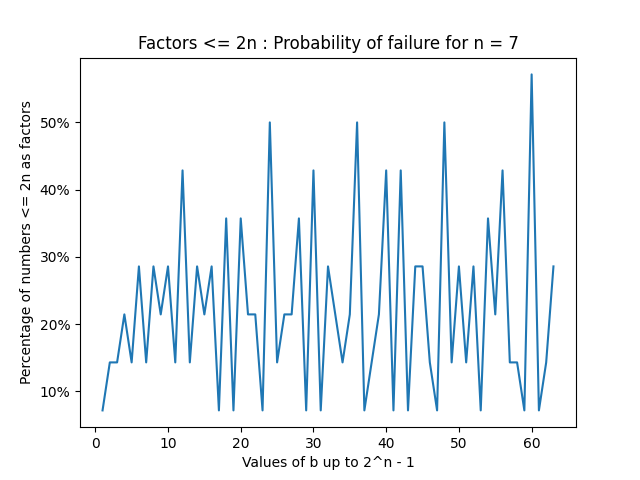
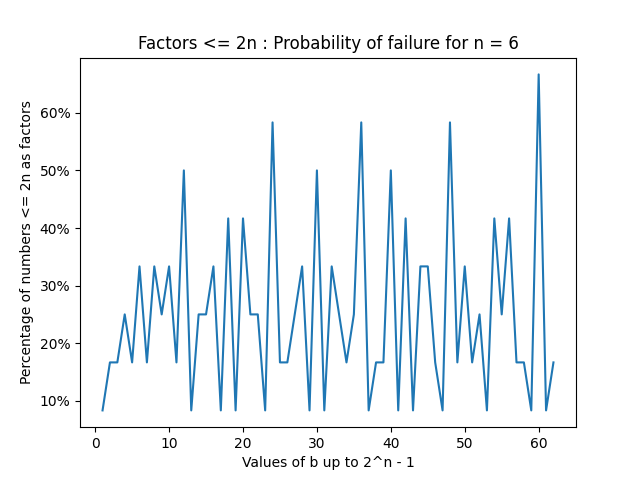
Fix one_way_failure chart

diff --git a/fingerprinting_2n_hash_experiment.py b/fingerprinting_2n_hash_experiment.py
@@ -162,7 +162,7 @@ def chart_fail_rate(n):
     indices = []
     fail_rates = []
     sum = 0
-    for trial in range(1, 2**(n-1)):
+    for trial in range(1, 2**(n)-1):
         indices.append(trial)
         fail_rates.append(input_ab_experiment_deterministic((0, trial), n, False) * 100)
         sum += fail_rates[trial - 1]
@@ -177,7 +177,7 @@ def chart_fail_rate(n):
     print(f'Average fail rate = {(sum / (2**n -1)):.3f}%')
 
 
-#chart_fail_rate(7)
+chart_fail_rate(6)
 
 
 #find_worst_pair(6, True)
